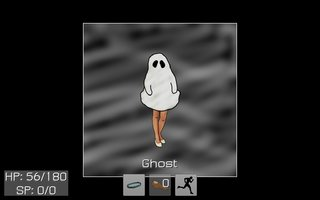
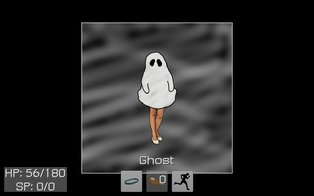
gamer lips page

diff --git a/gamer_lips/index.html b/gamer_lips/index.html
@@ -8,18 +8,25 @@
 <table border="0" cellPadding="1" cellSpacing="2" align="center">
 <tr><td><a href="http://twitter.com/gamer_lips"><img src="lipsc00.png" width="256" height="256"></a></td></tr>
 </table>
+<p align="center">
+<a href="https://play.google.com/store/apps/developer?id=Gamer+Lips"><img src="google_play.png"></a>
+</p>
 
 <p class="section" align="center">Video Games by Gamer Lips</p>
+
 <hr width="50%"/>
-<p class="subsection" align="center">Modern Lunacy</p>
+<p class="section" align="center">Modern Lunacy</p>
+<p align="center"><img border="0" width="256" height="256" src="lunacy/icon.png"></p>
 <p align="center">
-<img border="0" width="256" height="256" src="lunacy/icon.png"><br/>
+<a href="https://play.google.com/store/apps/details?id=flux.yellow.lunacy.android"><img src="google_play_2.png"></a>
+</p>
+<p align="center">
 "Explore your house in this paranoid fantasy,<br/>
 No ads, no pants, no hidden fees.<br/>
 Battle ghosts and shadows with your spoon,<br/>
-Casual turn-based modern lunacy."<br/>
+Casual turn-based modern lunacy."
 </p>
-<!-- mogrify -path . -resize 25x25% -quality 85 -format jpg *.png -->
+<!-- mogrify -path . -resize x196 -quality 85 -format jpg *.png -->
 <p align="center">
 <a href="lunacy/battle.png"><img border="0" vspace="2" hspace="2" src="lunacy/battle.jpg"></a>
 <a href="lunacy/stats.png"><img border="0" vspace="2" hspace="2" src="lunacy/stats.jpg"></a>
@@ -27,6 +34,27 @@ Casual turn-based modern lunacy."<br/>
 <a href="lunacy/stats_p.png"><img border="0" vspace="2" hspace="2" src="lunacy/stats_p.jpg"></a>
 <a href="lunacy/battle_p.png"><img border="0" vspace="2" hspace="2" src="lunacy/battle_p.jpg"></a>
 </p>
+<p align="center"><iframe width="420" height="315" src="https://www.youtube.com/embed/dPMZMG_Po9Y" frameborder="0" allowfullscreen></iframe></p>
+
+<hr width="50%"/>
+<p class="section" align="center">Kitten Story</p>
+<p align="center"><img border="0" width="256" height="256" src="cat/icon.png"></p>
+<p align="center">
+<a href="https://play.google.com/store/apps/details?id=flux.yellow.cat.android"><img src="google_play_2.png"></a>
+</p>
+<p align="center">Help a cute kitten find it's way home in this casual turn-based cat adventure game.</p>
+<p align="center">
+<!--<a href="cat/battle.png"><img border="0" vspace="2" hspace="2" src="cat/battle.jpg"></a>-->
+<a href="cat/battle2.png"><img border="0" vspace="2" hspace="2" src="cat/battle2.jpg"></a>
+<a href="cat/battle3.png"><img border="0" vspace="2" hspace="2" src="cat/battle3.jpg"></a>
+<!--<a href="cat/battle4.png"><img border="0" vspace="2" hspace="2" src="cat/battle4.jpg"></a>-->
+<a href="cat/field.png"><img border="0" vspace="2" hspace="2" src="cat/field.jpg"></a>
+<a href="cat/shop.png"><img border="0" vspace="2" hspace="2" src="cat/shop.jpg"></a>
+<a href="cat/shop2.png"><img border="0" vspace="2" hspace="2" src="cat/shop2.jpg"></a>
+<!--<a href="cat/stat2.png"><img border="0" vspace="2" hspace="2" src="cat/stat2.jpg"></a>-->
+<a href="cat/stats.png"><img border="0" vspace="2" hspace="2" src="cat/stats.jpg"></a>
+</p>
+<p align="center"><iframe width="420" height="315" src="https://www.youtube.com/embed/0JLBBw8Fnz8" frameborder="0" allowfullscreen></iframe></p>
 
 </body>
 </html>
